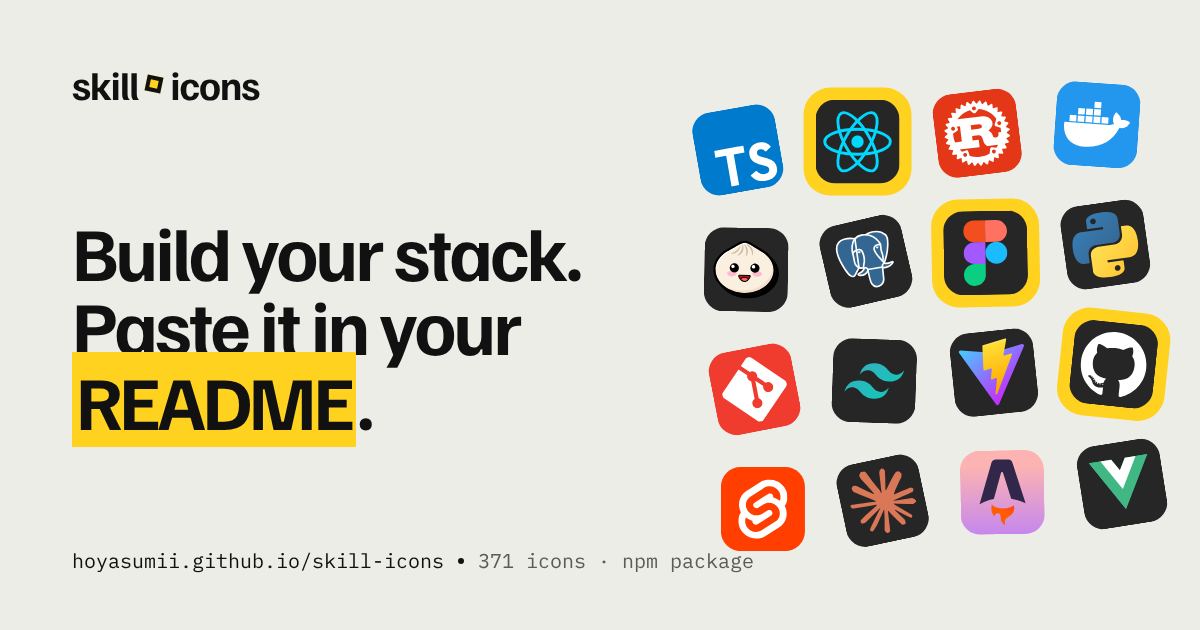
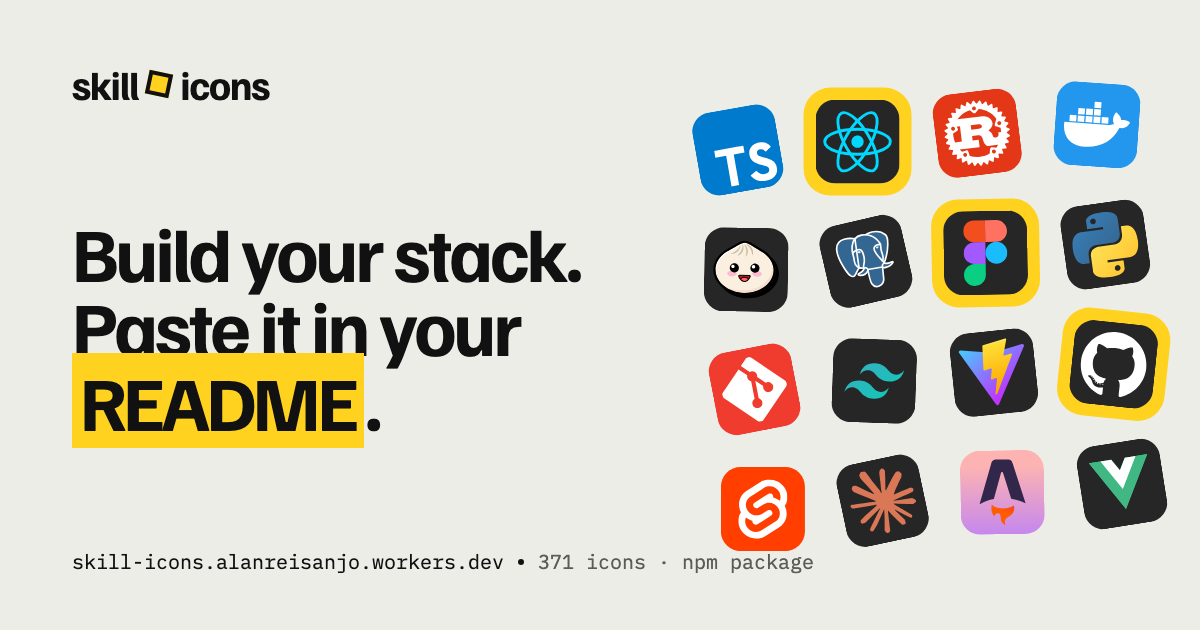
fix(og): show the current domain on the site covers
Both site covers (light and dark) now read
skill-icons.alanreisanjo.workers.dev in the footer instead of the old
hoyasumii.github.io/skill-icons, and so does render_og.py.

diff --git a/.claude/skills/skill-icons-og/scripts/render_og.py b/.claude/skills/skill-icons-og/scripts/render_og.py
@@ -25,7 +25,7 @@ HERE = Path(__file__).resolve().parent
 ASSETS = HERE.parent / "assets"
 FONTS = ASSETS / "fonts"
 
-SITE_URL = "hoyasumii.github.io/skill-icons"
+SITE_URL = "skill-icons.alanreisanjo.workers.dev"
 DEFAULT_SITE_ICONS = [
     "ts", "react", "rust", "docker", "bun", "postgres", "figma", "python",
     "git", "tailwind", "vite", "github", "svelte", "claude", "astro", "vue",
